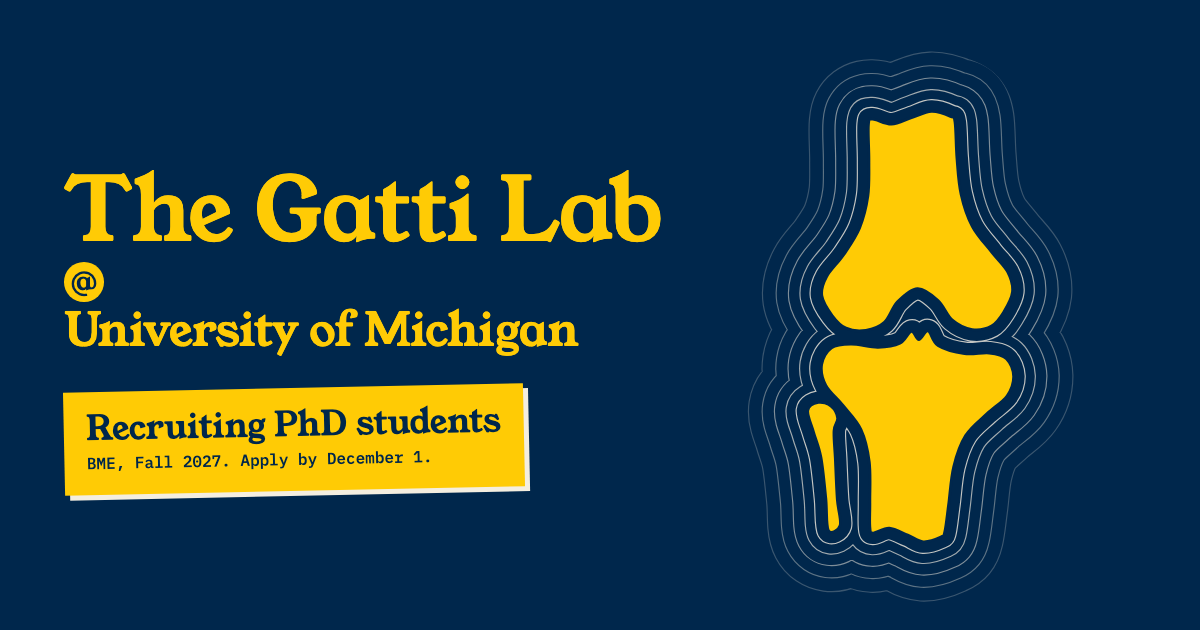
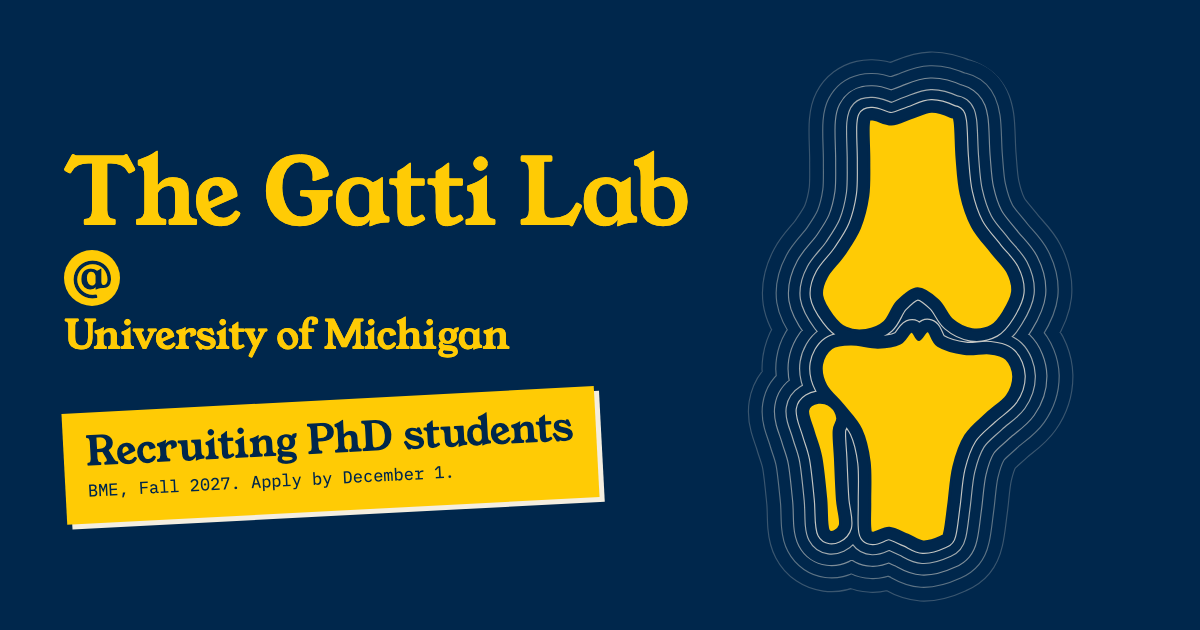
Simplify type and tilt the recruiting card further
Limit the page to two fonts at three sizes, with one mono weight. Set the
mission sentence in the mono used on the card, tilt the card to 3 degrees so
it reads as deliberate, rename the profile link to "Michigan Profile", and
rebuild the link preview image.

Changed region(s): [[0.0308, 0.2413, 0.5858, 0.573], [0.0308, 0.6032, 0.5242, 0.8444]]

diff --git a/assets/style.css b/assets/style.css
@@ -9,15 +9,13 @@
   font-weight: 400;
   font-display: swap;
 }
-@font-face {
-  font-family: "IBM Plex Mono";
-  src: url("fonts/ibm-plex-mono-500.woff2") format("woff2");
-  font-weight: 500;
-  font-display: swap;
-}
 
-/* Bone version (index.html). Each colour is named by its job. */
+/* Bone version (bone.html). Each colour is named by its job.
+   Type is deliberately limited: serif at --xl and --l for headings, and mono at
+   the body size for everything else. */
 :root {
+  --xl: clamp(3rem, 7vw, 7.25rem);
+  --l: clamp(1.6rem, 2.9vw, 2.75rem);
   --paper: #f4eee0;     /* page background */
   --ink: #00274c;       /* big serif words */
   --small: #00274c;     /* small mono words */
@@ -29,7 +27,7 @@
   --mono: "IBM Plex Mono", ui-monospace, Menlo, monospace;
 }
 
-/* Blue version (blue.html). Maize type, with blueprint-white details. */
+/* Blue version (index.html). Maize type, with blueprint-white details. */
 body.blue {
   --paper: #00274c;
   --ink: #ffcb05;
@@ -47,7 +45,7 @@ body {
   background: var(--paper);
   color: var(--small);
   font-family: var(--mono);
-  font-size: 1rem;
+  font-size: 1.0625rem;
   line-height: 1.5;
 }
 
@@ -81,53 +79,48 @@ h1 {
 }
 h1 span { display: block; white-space: nowrap; }
 
-.lab { font-size: clamp(3rem, 7vw, 7.25rem); }
-.uni { font-size: clamp(1.7rem, 3.75vw, 3.9rem); }
+.lab { font-size: var(--xl); }
+.uni { font-size: var(--l); }
 
 h1 .at {
   display: grid;
   place-items: center;
-  width: 1.5em;
-  height: 1.5em;
+  width: 1.4em;
+  height: 1.4em;
   margin: 0.25em 0;
   padding-bottom: 0.08em;
   border-radius: 50%;
   background: var(--maize);
   color: var(--on-maize);
-  font-size: clamp(1.3rem, 2.2vw, 2.2rem);
+  font-size: var(--l);
 }
 
 .mission {
-  margin: clamp(1.75rem, 3vw, 3rem) 0 0;
-  max-width: 40ch;
-  color: var(--ink);
-  font-family: var(--serif);
-  font-size: clamp(1.2rem, 1.75vw, 1.65rem);
-  line-height: 1.25;
+  margin: clamp(1.5rem, 2.5vw, 2.5rem) 0 0;
+  max-width: 54ch;
 }
 
 /* The recruiting note is a sticker slapped onto the page. */
 .recruit {
   display: inline-block;
-  max-width: 34rem;
-  margin-top: clamp(1.75rem, 3vw, 2.75rem);
+  max-width: 37rem;
+  margin-top: clamp(2.25rem, 3.5vw, 3.25rem);
   padding: 1.15rem 1.4rem 1.25rem;
   background: var(--maize);
   color: var(--on-maize);
-  transform: rotate(-1.2deg);
+  transform: rotate(-3deg);
   box-shadow: 5px 5px 0 var(--shadow);
 }
 .recruit h2 {
   margin: 0;
   font-family: var(--serif);
-  font-size: clamp(1.45rem, 2.3vw, 2.1rem);
+  font-size: var(--l);
   font-weight: 400;
   line-height: 1.1;
 }
-.when { margin: 0.2rem 0 0.8rem; font-weight: 500; }
+.when { margin: 0.2rem 0 0.8rem; }
 .recruit ul { margin: 0; padding: 0; list-style: none; }
 .recruit li + li { margin-top: 0.45rem; }
-.recruit a { font-weight: 500; }
 
 .fig {
   align-self: center;
@@ -149,8 +142,8 @@ figcaption {
   justify-content: center;
   gap: 0.25rem 0.9rem;
   margin-top: 0.75rem;
-  font-size: 0.85rem;
   text-align: center;
+  text-wrap: balance;
 }
 #pause {
   padding: 0;
@@ -166,17 +159,17 @@ figcaption {
 
 footer {
   grid-column: 1 / -1;
-  font-size: 0.85rem;
 }
 
 @media (max-width: 860px) {
+  :root {
+    --xl: clamp(2.5rem, 13vw, 6rem);
+    --l: clamp(1.35rem, 6.2vw, 2.75rem);
+  }
   .page {
     grid-template-columns: minmax(0, 1fr);
     grid-template-rows: none;
   }
-  .lab { font-size: clamp(2.5rem, 13vw, 6rem); }
-  .uni { font-size: clamp(1.4rem, 7vw, 3.3rem); }
-  .at { font-size: clamp(1.3rem, 5vw, 2rem); }
   .fig { max-width: 20rem; }
   .recruit { display: block; }
 }

diff --git a/bone.html b/bone.html
@@ -35,7 +35,7 @@
         <p class="when">BME, Fall 2027. Apply by December 1.</p>
         <ul>
           <li><a href="https://bme.umich.edu/academics/graduate/graduate-admissions/">Apply through Michigan BME</a> and name Anthony Gatti as a potential advisor.</li>
-          <li><a href="https://cad-ai.med.umich.edu/people#h.32wbcafxf2bp">Anthony's CAD-AI profile</a></li>
+          <li><a href="https://cad-ai.med.umich.edu/people#h.32wbcafxf2bp">Michigan Profile</a></li>
         </ul>
       </section>
     </div>

diff --git a/index.html b/index.html
@@ -34,7 +34,7 @@
         <p class="when">BME, Fall 2027. Apply by December 1.</p>
         <ul>
           <li><a href="https://bme.umich.edu/academics/graduate/graduate-admissions/">Apply through Michigan BME</a> and name Anthony Gatti as a potential advisor.</li>
-          <li><a href="https://cad-ai.med.umich.edu/people#h.32wbcafxf2bp">Anthony's CAD-AI profile</a></li>
+          <li><a href="https://cad-ai.med.umich.edu/people#h.32wbcafxf2bp">Michigan Profile</a></li>
         </ul>
       </section>
     </div>
